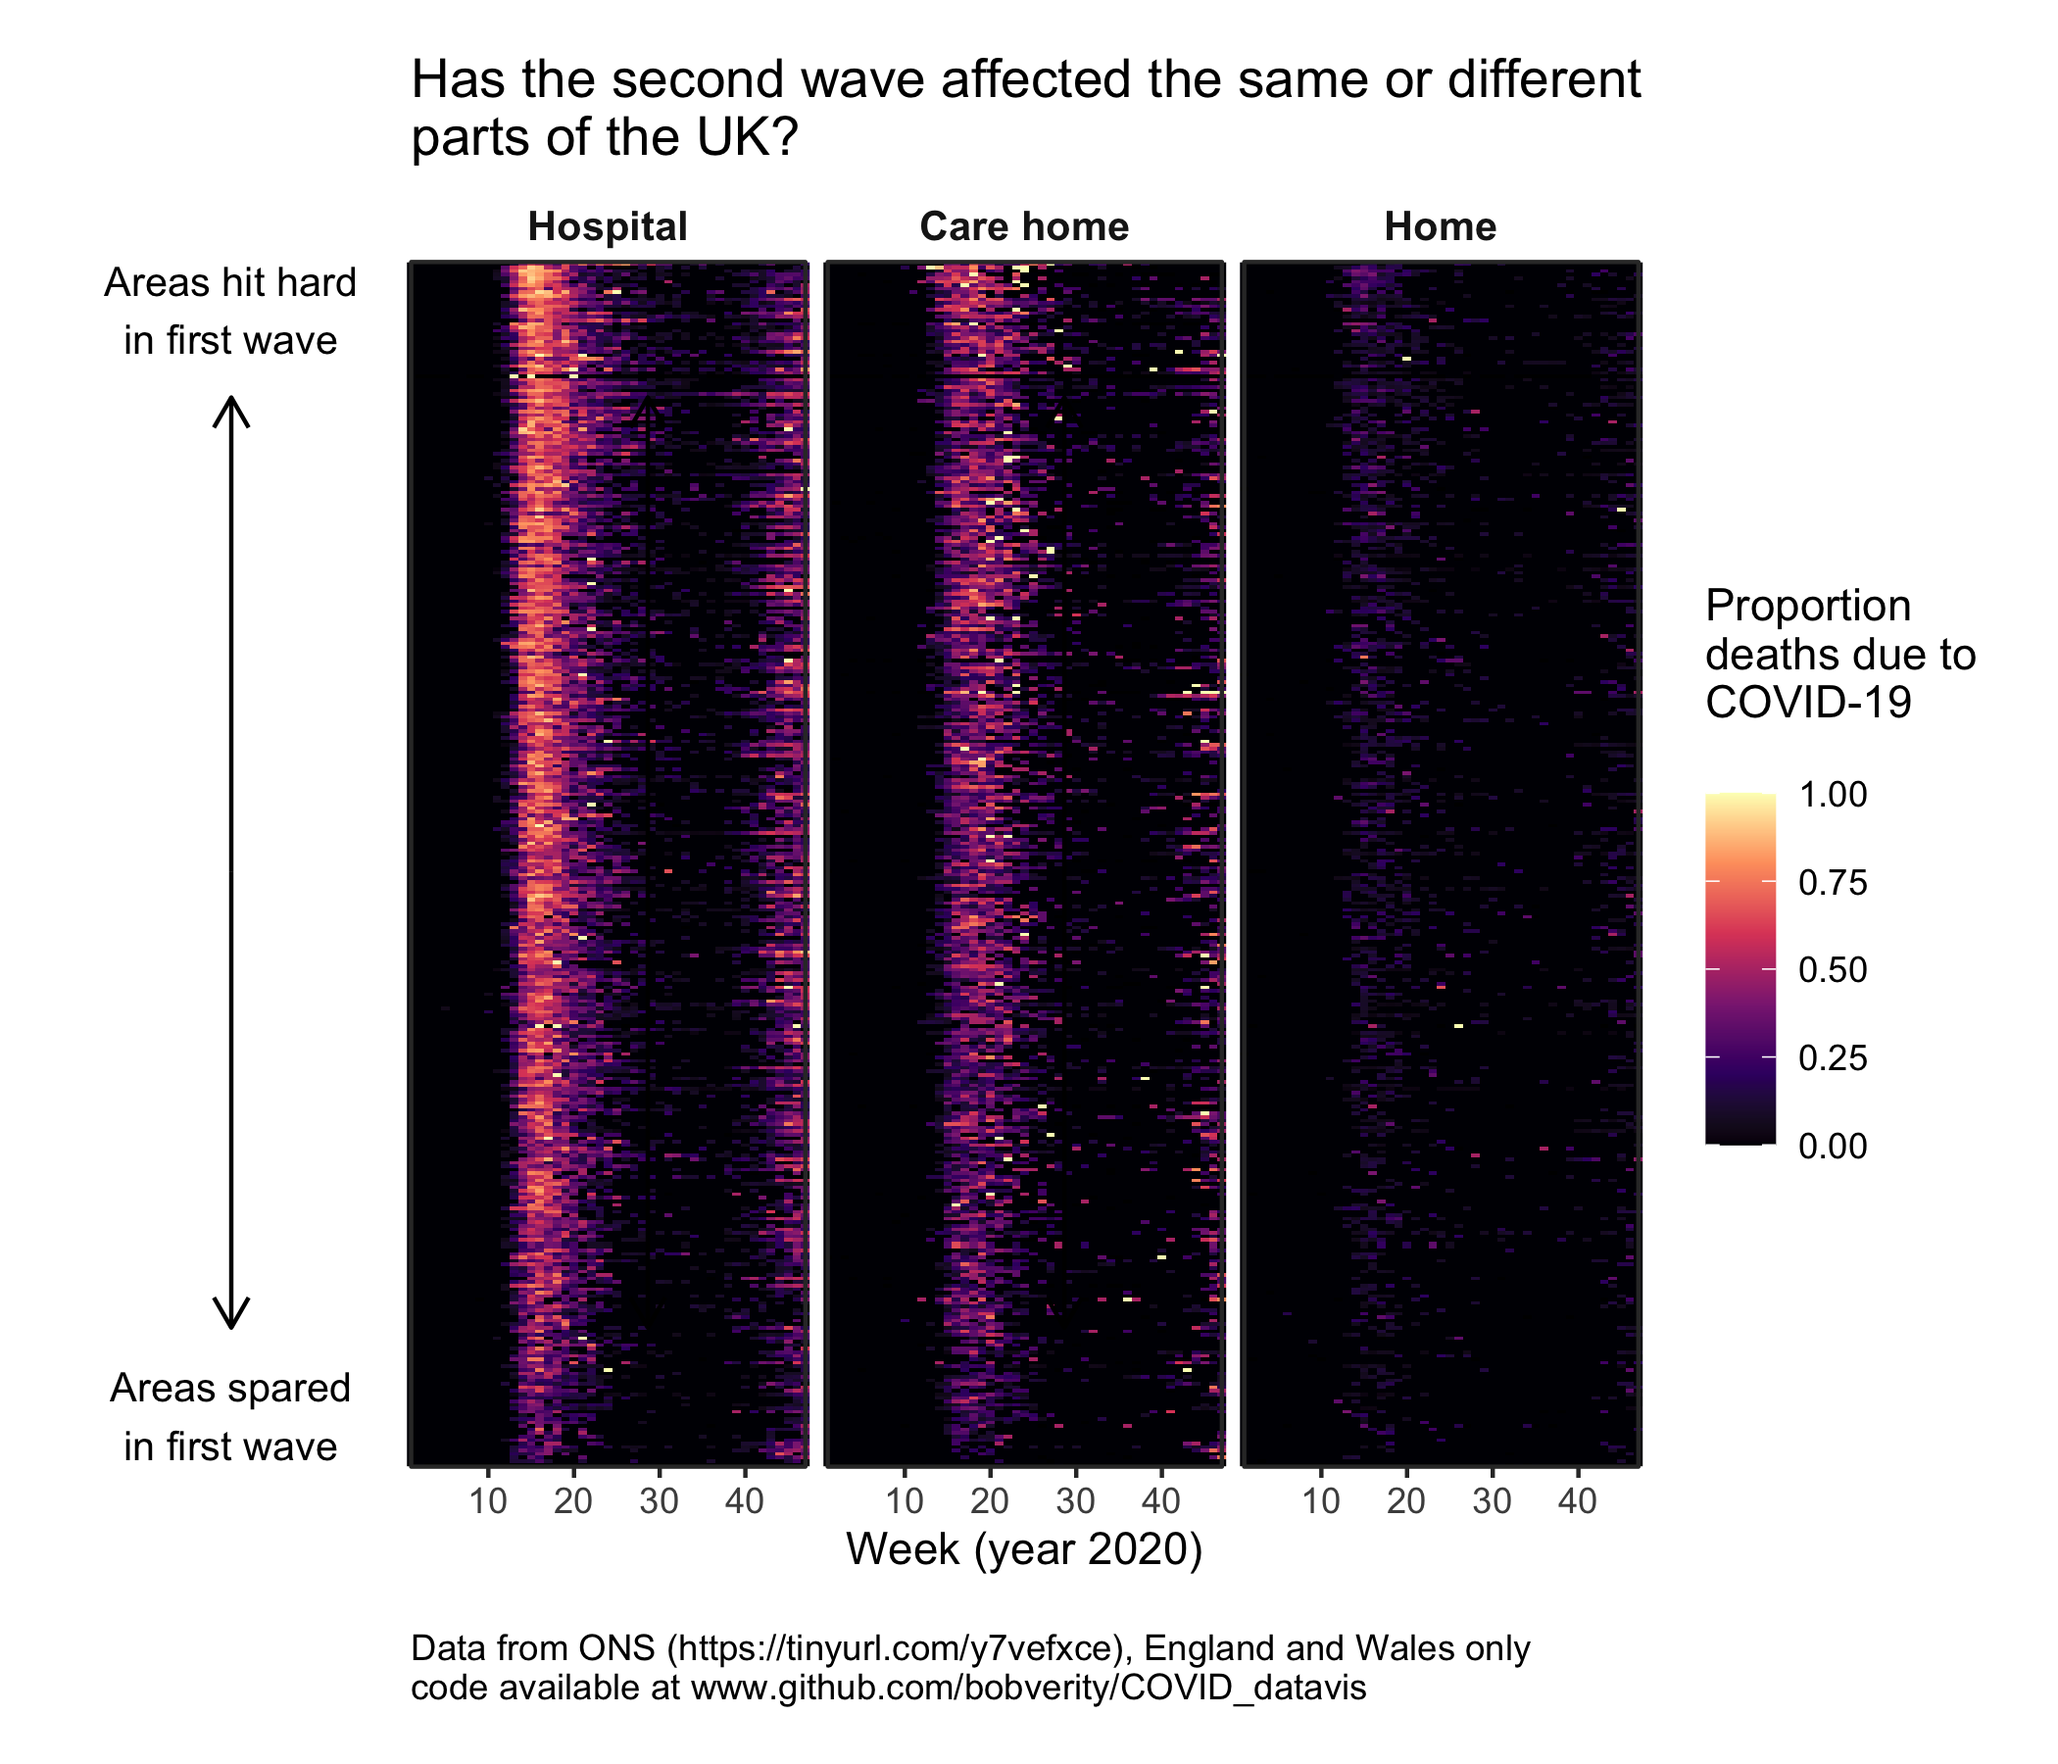
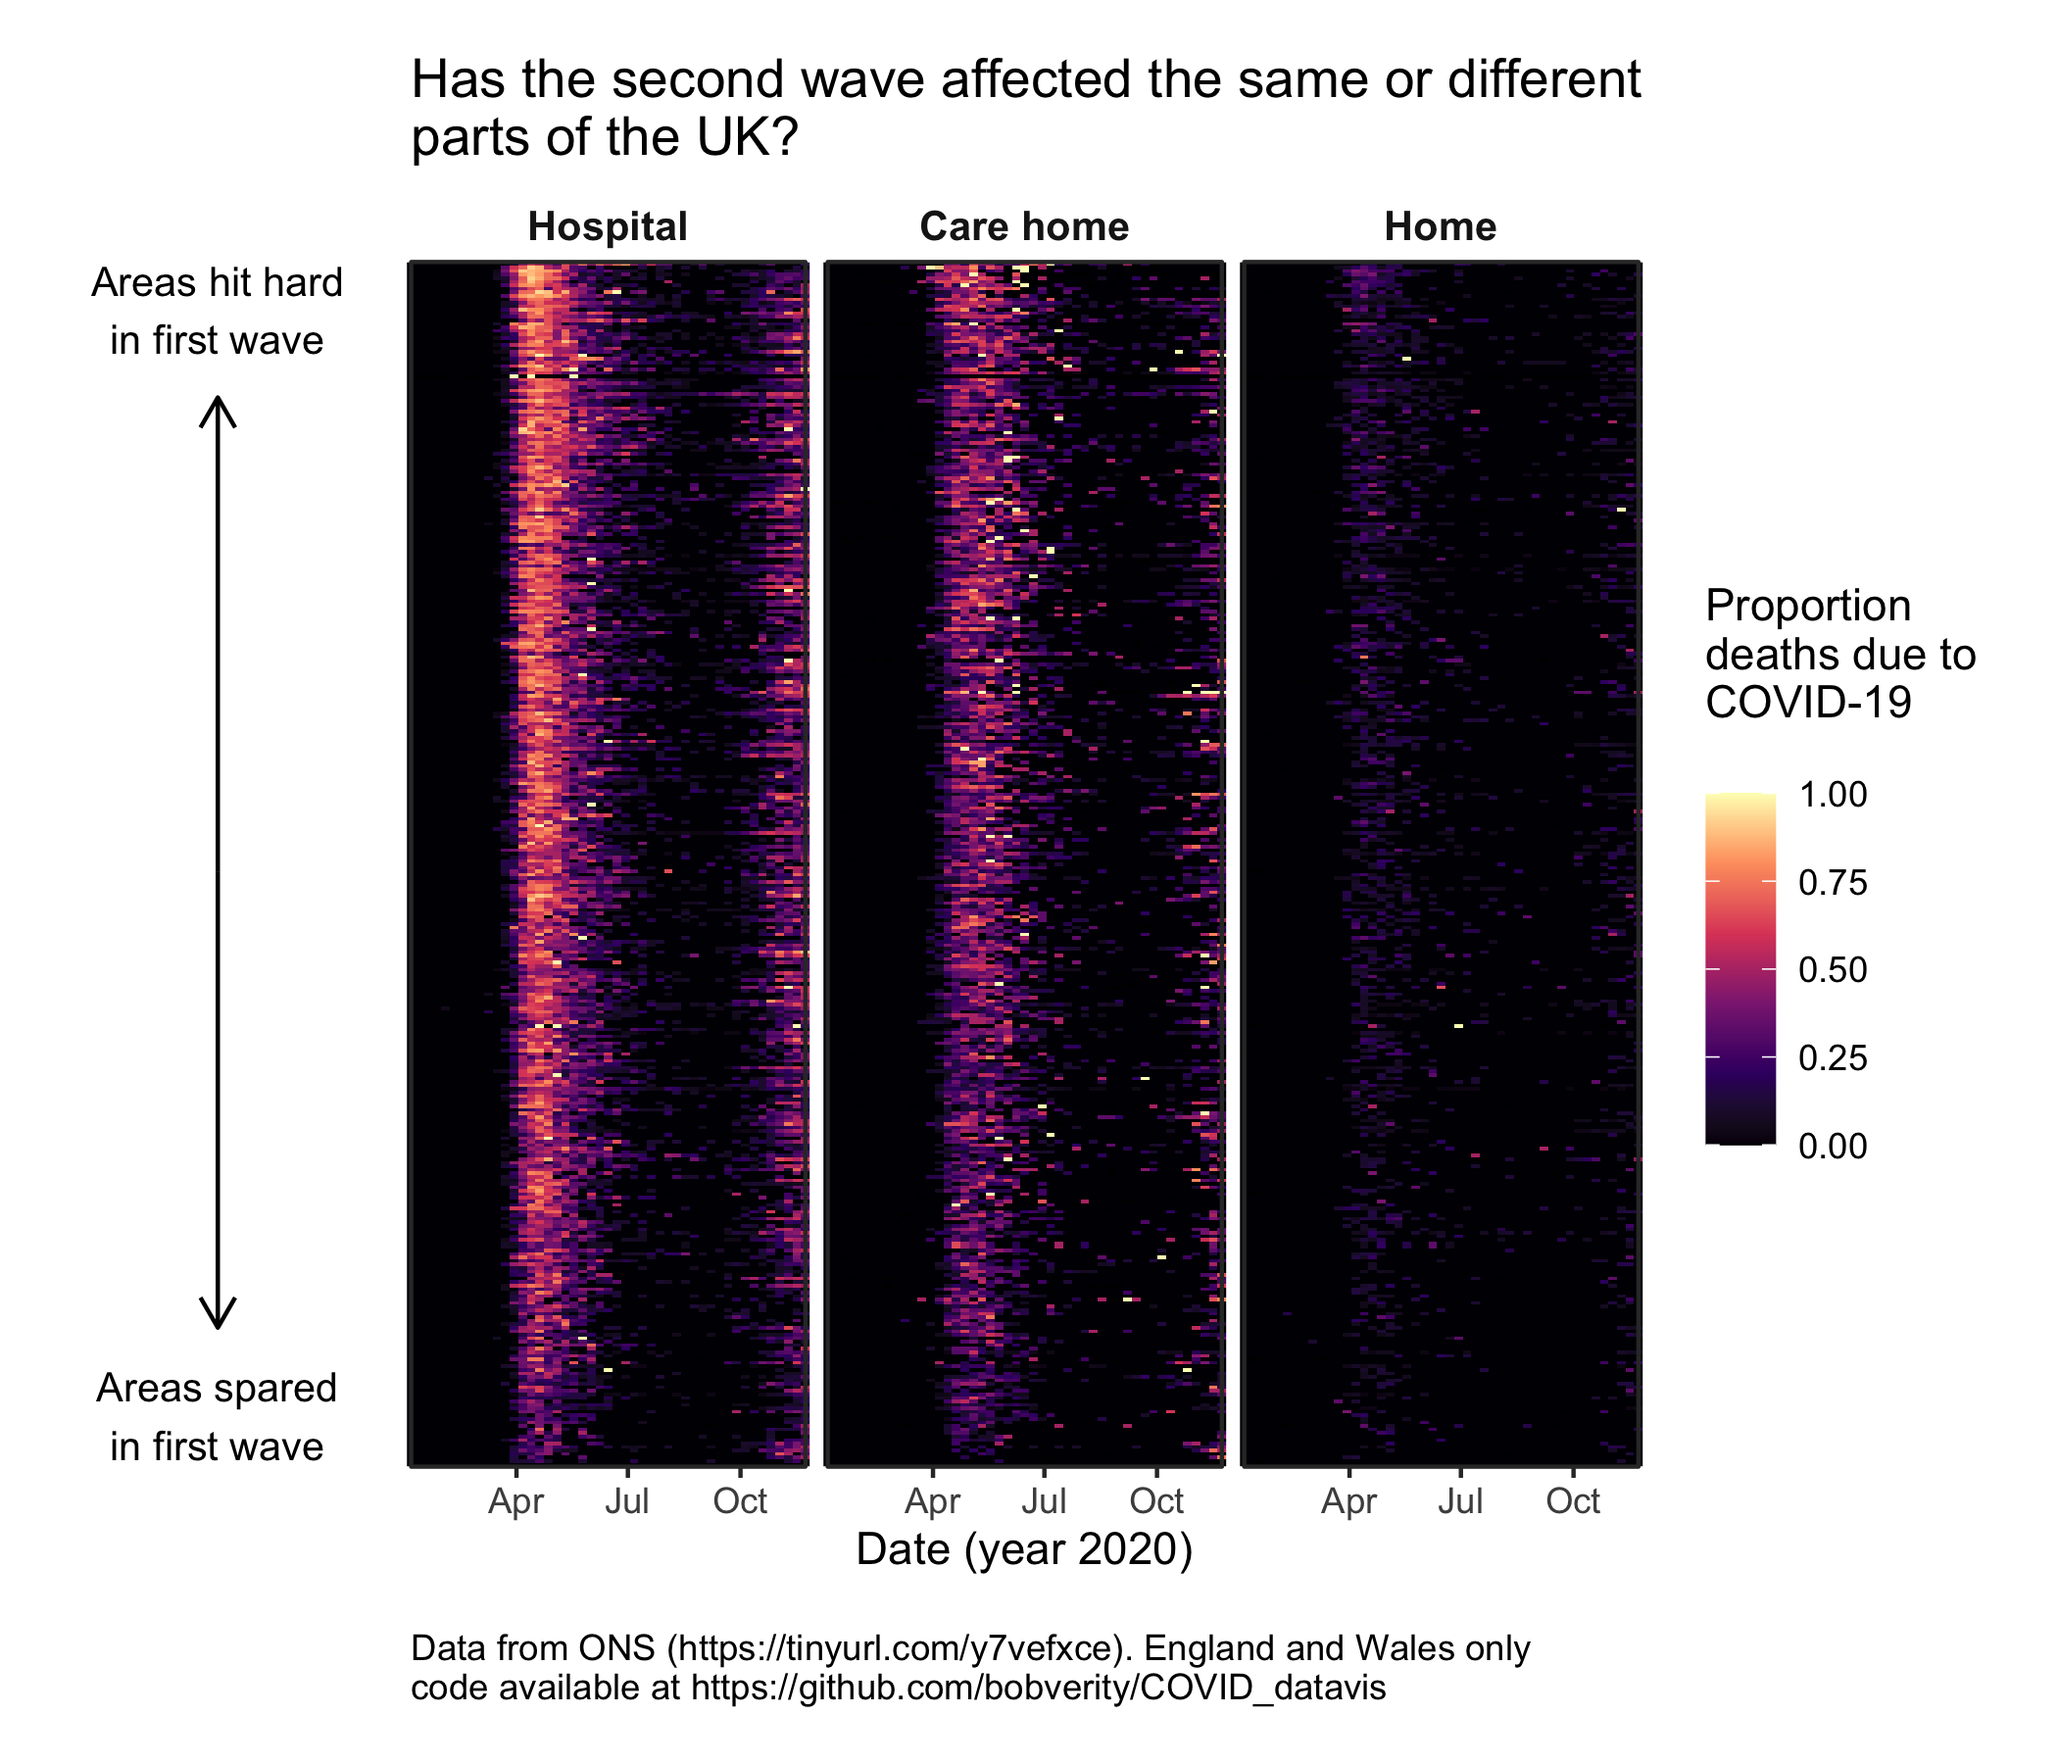
updated plot to calendar dates

diff --git a/README.md b/README.md
@@ -4,4 +4,6 @@ Basic visualisation plots of COVID-19 data
 
 ## Has the second wave affected the same or different parts of the UK?
 
+See script *area_deaths_ONS.R*:
+
 ![COVID deaths by area](https://github.com/bobverity/COVID_datavis/blob/master/output/prop_covid_deaths_by_area.png?raw=true)
